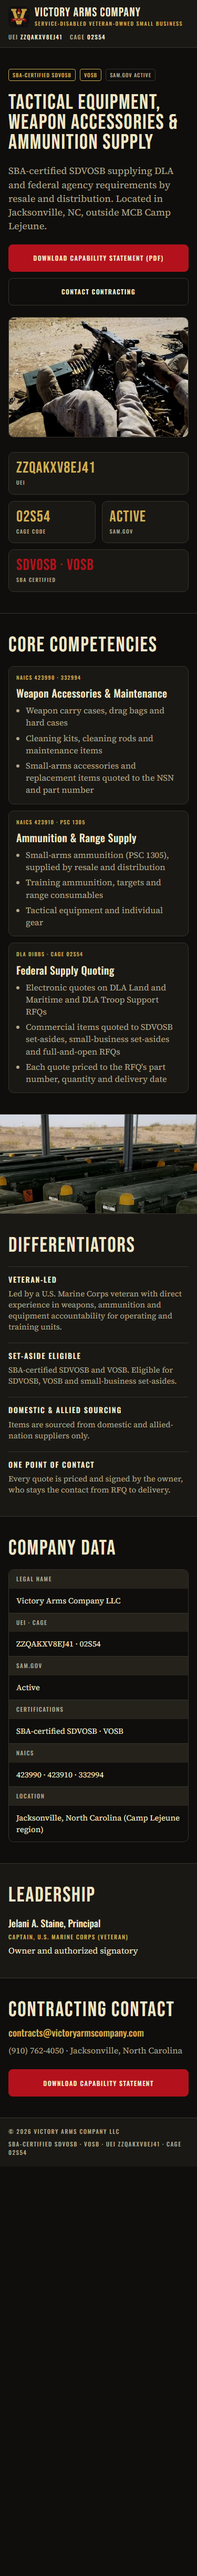
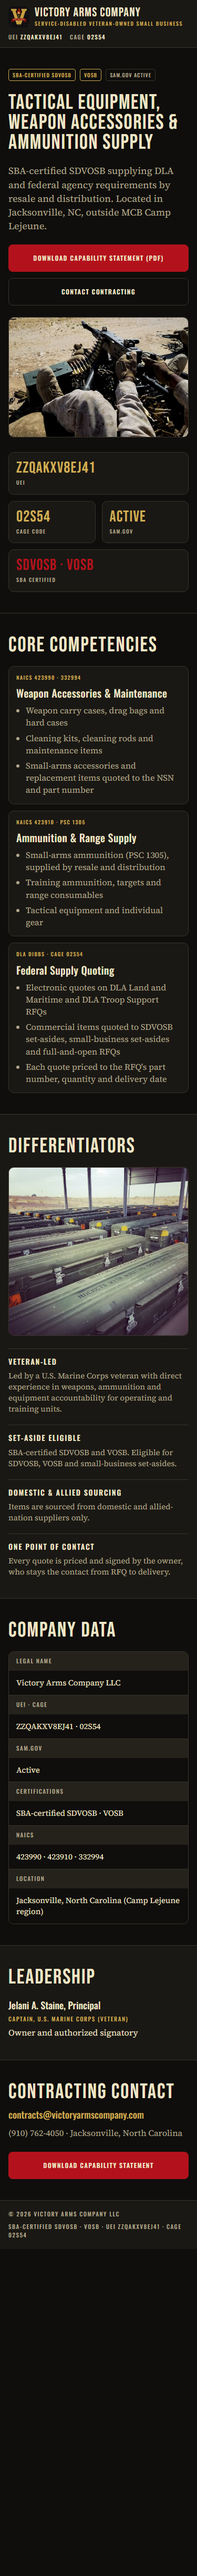
Use the owner's Stinger case photo whole and ungraded beside Differentiators
- Replaces the cropped, graded container band with the owner's own photo,
  shown uncropped with its original colour. Only resized for the web and
  stripped of metadata.
- Differentiators become a two-by-two grid beside the photo on desktop;
  on phones the photo sits above them.

Changed region(s): [[0.0, 0.4059, 1.0, 0.8743], [0.5867, 0.6869, 0.616, 0.7182], [0.528, 0.6869, 0.5573, 0.7182]]

diff --git a/assets/site.css b/assets/site.css
@@ -142,8 +142,11 @@ h1, h2, h3, p, ul { margin: 0; }
   display: block; width: 100%; height: auto;
   border: 1px solid var(--border); border-radius: 10px;
 }
-.band-photo { margin: 0; border-top: 1px solid var(--border); background: var(--surface); }
-.band-photo img { display: block; width: 100%; height: auto; }
+.diff-layout { display: flex; flex-direction: column; gap: 24px; }
+.diff-photo {
+  display: block; width: 100%; height: auto;
+  border: 1px solid var(--border); border-radius: 10px;
+}
 
 /* Metric tiles */
 .tiles { padding: 0 0 40px; }
@@ -231,7 +234,11 @@ dl.data { margin: 0; }
   }
   .hero-copy { gap: 28px; }
   .hero h1 { font-size: clamp(48px, 5.4vw, 76px); }
-  .band-photo img { height: 300px; object-fit: cover; }
+  .diff-layout {
+    display: grid; grid-template-columns: minmax(0, 0.8fr) minmax(0, 1.2fr);
+    gap: 48px; align-items: center;
+  }
+  .diff-layout .diff-grid { grid-template-columns: repeat(2, 1fr); gap: 28px 32px; }
   .hero .sub { font-size: 19px; }
   .btn { font-size: 14px; letter-spacing: 0.16em; padding: 0 24px; }
   .btn-row { flex-direction: row; flex-wrap: wrap; }
@@ -254,7 +261,7 @@ dl.data { margin: 0; }
 @media print {
   html, body { background: var(--text); color: var(--bg); }
   body { font-size: 11pt; }
-  .skip, .nav, .btn-row, .contact .btn, .hero-photo, .band-photo { display: none; }
+  .skip, .nav, .btn-row, .contact .btn, .hero-photo, .diff-photo { display: none; }
   .site-header, .site-footer, .section.alt, .card, .tile { background: transparent; }
   .lockup-name, .ids b, .leader .role, .card h3 { color: var(--bg); }
   .lockup-tag, .card .codes, .leader .service, .badge.cert, .tile .value { color: var(--red); }

diff --git a/index.html b/index.html
@@ -76,21 +76,17 @@
 </div>
 </section>
 
-<figure class="band-photo">
-<picture>
-<source media="(min-width: 700px)" srcset="assets/img/band-staging-1920.jpg" width="1920" height="372">
-<img src="assets/img/band-staging-900.jpg" alt="Rows of transport containers staged under an open shelter" loading="lazy" width="900" height="450">
-</picture>
-</figure>
-
 <section class="section alt" id="differentiators">
 <div class="wrap">
 <h2>Differentiators</h2>
+<div class="diff-layout">
+<img class="diff-photo" src="assets/img/stinger-cases-1100.jpg" alt="Rows of Stinger missile shipping containers staged under an open shelter" loading="lazy" width="1100" height="1029">
 <div class="diff-grid">
 <div class="diff"><h3>Veteran-Led</h3><p>Led by a U.S. Marine Corps veteran with direct experience in weapons, ammunition and equipment accountability for operating and training units.</p></div>
 <div class="diff"><h3>Set-Aside Eligible</h3><p>SBA-certified SDVOSB and VOSB. Eligible for SDVOSB, VOSB and small-business set-asides.</p></div>
 <div class="diff"><h3>Domestic &amp; Allied Sourcing</h3><p>Items are sourced from domestic and allied-nation suppliers only.</p></div>
 <div class="diff"><h3>One Point of Contact</h3><p>Every quote is priced and signed by the owner, who stays the contact from RFQ to delivery.</p></div>
+</div>
 </div>
 
 </div>

diff --git a/scripts/build.py b/scripts/build.py
@@ -194,18 +194,14 @@ def build_index(v: dict) -> str:
 </div>
 </section>
 
-<figure class="band-photo">
-<picture>
-<source media="(min-width: 700px)" srcset="assets/img/band-staging-1920.jpg" width="1920" height="372">
-<img src="assets/img/band-staging-900.jpg" alt="Rows of transport containers staged under an open shelter" loading="lazy" width="900" height="450">
-</picture>
-</figure>
-
 <section class="section alt" id="differentiators">
 <div class="wrap">
 <h2>Differentiators</h2>
+<div class="diff-layout">
+<img class="diff-photo" src="assets/img/stinger-cases-1100.jpg" alt="Rows of Stinger missile shipping containers staged under an open shelter" loading="lazy" width="1100" height="1029">
 <div class="diff-grid">
 {diffs(cp["differentiators"])}
+</div>
 </div>
 {direction}
 </div>
